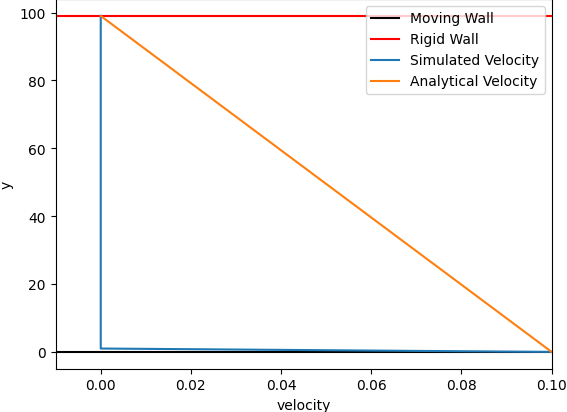
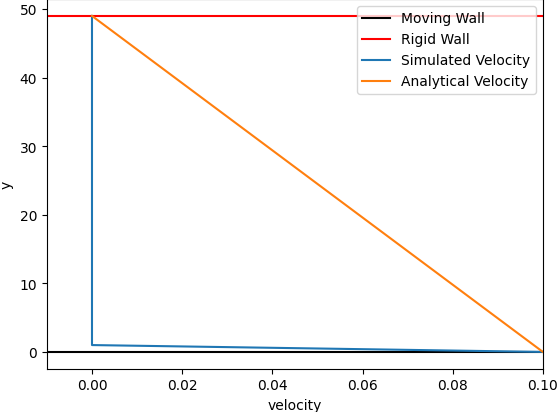
Solution?

diff --git a/lb/boundaries.py b/lb/boundaries.py
@@ -86,33 +86,19 @@ class MovingWall(Boundary):
         f[self.input_channels, :, 0] = value
 
     def apply(self, f):
-        density2 = self.calculate_wall_density(f)
-        print("density2")
-        print(density2)
-        multiplier = 2 * (1/self.cs) ** 2
-        temp = (C @ self.velocity)
-        temp2 = density2 * W[:, None]
-        momentum2 = multiplier * temp2 * temp[:, None]
-        momentum2 = momentum2[self.output_channels, :]
-        print("momentum2")
-        print(momentum2)
+        #density2 = self.calculate_wall_density(f)
+        #multiplier = 2 * (1/self.cs) ** 2
+        #temp = (C @ self.velocity)
+        #temp2 = density2 * W[:, None]
+        #momentum2 = multiplier * temp2 * temp[:, None]
+        #momentum2 = momentum2[self.output_channels, :]
         #temp3 = (self.f_cache[self.output_channels, :] - momentum2)
         #self.update_f(f, temp3)
-        
-        #vs = np.array([[0, 0], [1, 0], [0, 1],[-1, 0], [0, -1], [1, 1],[-1, 1], [-1, -1], [1, -1]])
-        #w = np.array([4. / 9.] + [1. / 9.] * 4 + [1. / 36.] * 4)
-        #temp = np.zeros((9, 100, 100))
-        #value = 6 * w[self.output_channels] * (vs[self.output_channels] @ self.velocity)
-        #temp.T[:, :, self.input_channels] = value[np.newaxis, :]
 
         density = self.calculate_wall_density(f)
-        print("density1")
-        print(density)
         multiplier = 2 * (1/self.cs) ** 2
-        momentum = multiplier * (C_ALT @ self.velocity) * (W_ALT * density[: , None])
+        momentum = multiplier * (C @ self.velocity) * (W * density[: , None])
         momentum = momentum[:, self.output_channels]
-        print("momentum1")
-        print(momentum)
         self.update_f(f, (self.f_cache.T[:, self.output_channels] - momentum).T)
 
     def update_velocity(self, velocities):

diff --git a/lb/latticeBoltzmann.py b/lb/latticeBoltzmann.py
@@ -35,13 +35,8 @@ class LatticeBoltzmann():
     
      # Bounce back particles from a wall
     def _apply_boundaries(self) -> None:
-        old_f = self.f.copy()
         for boundary in self.boundaries:
             boundary.apply(self.f)
-        if(old_f == self.f).all():
-            print("No change")
-        else:
-            print("Change")
 
 # Helper functions to calculate density, velocity field, equilibrium
 

diff --git a/couette_flow.py b/couette_flow.py
@@ -3,7 +3,7 @@ from lb import LatticeBoltzmann
 from plot import Plotter2
 from lb import RigidWall, MovingWall
 
-def couette_flow_sim(nx: int = 100, ny: int = 100, omega: float = 0.6, steps: int = 2):
+def couette_flow_sim(nx: int = 50, ny: int = 50, omega: float = 0.3, steps: int = 2000):
     
     rho = np.ones((nx, ny))
     velocities = np.zeros((2, nx, ny))
